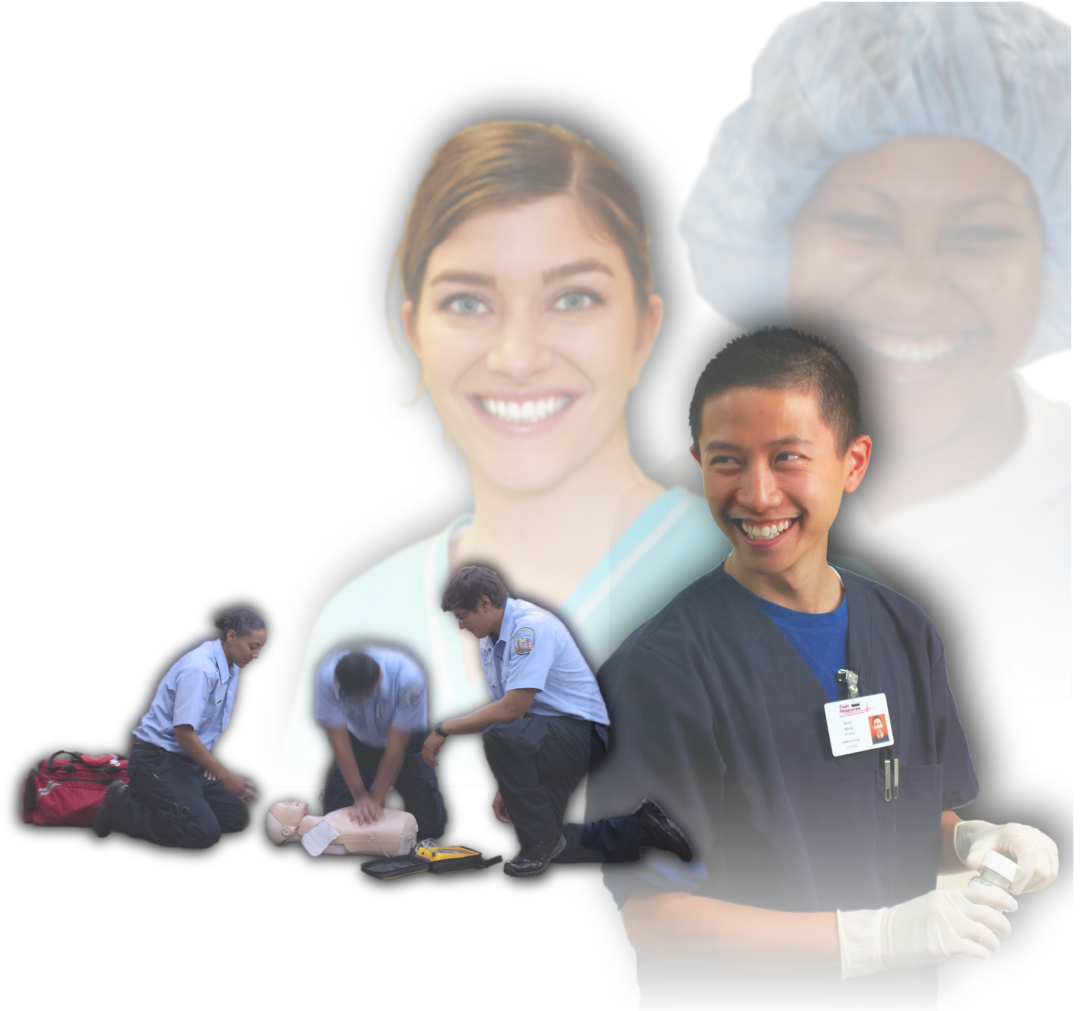
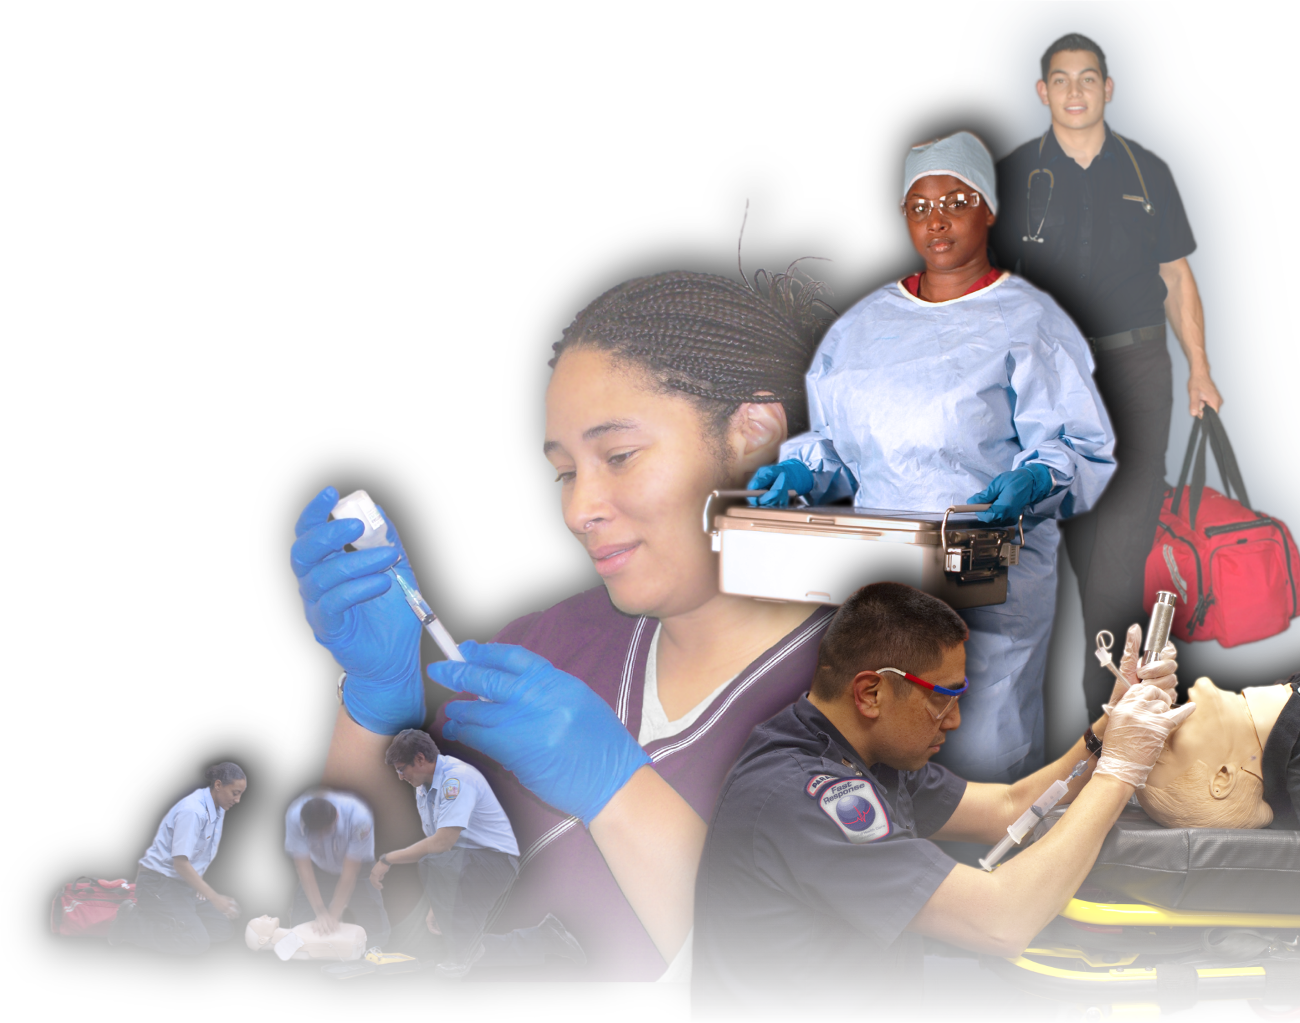
Set up all the sub pages for Contact Us section, except for Directions - may combine with Map page. Created a new template and some new styles for those pages. Map page uses a local static img, dynamic one will not work when hosting from localhost. Updated background image. Added blank pages for New

diff --git a/css/3cols.css b/css/3cols.css
@@ -1,0 +1,60 @@
+main {
+    flex-flow: row wrap;
+    justify-content: space-between;
+    align-items: flex-start;
+    overflow-y: auto;
+}
+
+h3 {
+  margin-top: 0;
+}
+
+#left-col, #center-col, #right-col {
+    flex: 0 0 32% !important;
+    width: 32% !important;
+    justify-content: flex-start;
+}
+
+#center-col {
+  padding: 0 !important;
+}
+
+/*
+#right-col {
+    flex: 0 0 40%;
+    width: 40%;
+    justify-content: flex-start;
+}
+
+#right-col > dl {
+  display: flex;
+  flex-flow: row wrap;
+  justify-content: space-between;
+  align-items: center;
+}
+
+#right-col > dl > dt {
+  display: inline-block;
+  flex: 1 20%;
+  margin-top: 10px !important;
+}
+
+#right-col > dl > dd {
+  display: inline-block;
+  flex: 1 70%;
+  margin-top: 10px !important;
+}
+*/
+
+dl {
+  margin: 0;
+}
+dt {
+  margin-top: 5px;
+}
+dt:first-child {
+  margin-top: 0;
+}
+dd {
+  margin: 0 0 0 20px;
+}

diff --git a/js/menus.js b/js/menus.js
@@ -1,0 +1,17 @@
+$('nav li a[data-submenu]').click(function() {
+  // pseudocode
+  var footer = $('footer');
+  var submenu_id = $(this).getData('submenu');
+  var animated = $.copyElement($(submenu_id));
+  animated.id = animated.id + '_animated';
+  animated.top = $(this).top;
+  animated.left = $(this).left;
+  animated.width = animated.firstchild.width;
+  animated.show();
+  animated.moveDown( $('footer').top, 2s );
+  animated.animateWidth( footer.width, 2s );
+  footer.children().hide();
+  $(submenu_id).show();
+  animated.hide();
+  animated.remove();
+});

diff --git a/css/contact.css b/css/contact.css
@@ -31,3 +31,29 @@
 #submenu_contact_us {
     display: flex;
 }
+
+main > a.map {
+  display: block;
+  align-self: center;
+}
+
+main > ul.transit {
+  display: flex;
+  flex-flow: column nowrap;
+  justify-content: space-around;
+  height: 100%;
+  margin-bottom: 0;
+}
+
+main > ul.parking {
+  overflow-y: scroll;
+  height: 100%;
+  margin-bottom: 0;
+}
+
+main > ul.parking li {
+  margin-top: 10px;
+}
+main > ul.parking > li:first-child {
+  margin-top: 0;
+}

diff --git a/css/main.css b/css/main.css
@@ -736,7 +736,7 @@ main {
     /* overflow-y: scroll; */
     overflow: hidden;
     padding: 10px;
-    background-color: rgba(0,0,0, 0.75);
+    background-color: rgba(0,0,0, 0.85);
     height: 100%;
     width: 100%;
     margin: 0 auto;
@@ -823,9 +823,15 @@ figcaption {
 }
 
 
-
 #footer-menu {
     width: 100%;
     height: 100%;
 }
+
+
+.nowrap {
+    white-space: nowrap;
+}
+
+
 

diff --git a/contact/parking.php b/contact/parking.php
@@ -2,6 +2,56 @@
 require_once '../twig_loader.php';
 
 $content = <<<'HTML'
+<ul class="parking">
+  <li><strong>Parking Validation:</strong> Sorry, we do not validate parking.</li>
+  <li><strong>Metered Parking Lot:</strong> A metered parking lot is available on Berkeley Way between Shattuck Avenue and Milvia. <em><span class="nowrap">Hours: Mon-Fri 5:15am-12am,</span> <span class="nowrap">Sat 8am-12am,</span> <span class="nowrap">Sun 12pm-12am.</span></em></li>
+  <li><strong>Residential/Street Parking:</strong> West of Martin Luther King Jr. Way for up to two hours.</li>
+  <li><strong>Motorcycle Parking:</strong> Free parking for motorcycles is located on the corner of Allston Way and Harold Street <span class="nowrap">(1/4 block from the school).</span></li>
+  <li><strong>Parking Garages:</strong> There are several parking garages in the area. These rates and hours are not guaranteed -- Please contact the garage prior to your visit.
+  <ul>
+	  <li>
+	    <div>Standard Parking</div>
+	    <div>2020 Kittredge St between Harold and Milvia <a href="tel: +15106651662" class="nowrap">510-665-1662</a></div>
+	    <div>$2.50 per hour. In by 8:30am, out by 6:00pm: $8.00 for the day.</div>
+	    <div>Hours: Sun-Thurs 6am-12am, Fr-Sa 6am-2am</div>
+	  </li>
+	  <li>
+	    <div>Allston Way Garage (Great Western)/Standard Parking</div>
+	    <div>2061 Allston Way between Milvia and Shattuck <a href="tel: +15109819443" class="nowrap">510-981-9443</a></div>
+	    <div>$2.50 per hour, $14.50 per day. In by 8:30am, out by 6:00pm: $8.00 for the day.</div>
+	    <div>Hours: Mon-Thurs 6am-12am, Fri 6am-2am, Sat 8am-2am, <span class="nowrap">Sun 8am-12am</span></div>
+	  </li>
+	  <li>
+	    <div>Center Street Garage - Parking Concepts Inc. (PCI)</div>
+	    <div>2025 Center St. between Milvia St. and Shattuck Ave. <a href="tel: +15106499822" class="nowrap">510-649-9822</a></div>
+	    <div>$1.00 first hour, $2.00 each hour after. $15.00 per day max.</div>
+	    <div>Hours: Mon-Fri 5a-12a, Sat 7a-12a, Sun 12p-12p</div>
+	  </li> 
+	  <li>
+	    <div>Golden Bear Garage - Ampco System Parking</div>
+	    <div>1995 University Ave. Enter on Bonita Ave. <a href="tel: +15108482262" class="nowrap">510-848-2262</a></div>
+	    <div>$3.00 per hour, $14.00 per day max. In by 9:30am, out by 6:30pm: $10.00 for the day.</div>
+	    <div>Hours: Mon-Thurs 6am-10pm, Fri 8am-10pm, Sat 8am-6pm, <span class="nowrap">Sun CLOSED</span></div>
+	  </li>
+	  <li>
+	    <div>Oxford Street Surface Lot - Parking Concepts, Inc. (PCI)</div>
+	    <div>Oxford St. between Allston Way and Kittredge St <a href="tel: +15108431788" class="nowrap">510-843-1788</a></div>
+	    <div>$2.00 first hour, $4.00 second hour, $8.00 third hour. $20 max.</div>
+	    <div>Hours: Mon-Thurs 7am-1am, Fri-Sat 7am-2am, <span class="nowrap">Sun 8am-10pm</span></div>
+	  </li>
+	  <li>
+	    <div>Promenade Garage - Douglas Parking</div>
+	    <div>1936 Addison St. between MLK Jr. Way and Milvia St. <a href="tel: +15108494959" class="nowrap">510-849-4959</a></div>
+	    <div>$3.00 per hour, $10.00 per day.</div>
+	    <div>Hours: Mon-Sat 7:30am-7pm</div>
+	  </li>
+	  <li>
+	    <div>Al's Parking Lot</div>
+	    <div>2109 Milvia St. between Addison St. and Center St.</div>
+	  </li>
+  </ul>
+  </li>
+</ul>
 HTML;
 
 $renderer = new TemplateRenderer();

diff --git a/contact/hours.php b/contact/hours.php
@@ -1,18 +1,77 @@
 <?php
 require_once '../twig_loader.php';
 
-$content = <<<'HTML'
+$left = <<<'HTML'
+<h3>Front Desk<br />Continuing Education<br />General Inquiries</h3>
+<dl>
+	<dt>Hours</dt>
+    <dd>Mon - Thu: 8 AM - 6 PM</dd>
+    <dd>Fri: 8 AM - 5 PM</dd>
+	<dt>Phone</dt>
+    <dd><a href="tel: +15108494009" class="nowrap">510-849-4009</a></dd>
+	<dt>Fax</dt>
+    <dd>866-290-2739</dd>
+	<dt>Email</dt>
+    <dd><a href="mailto: info@fastresponse.org">info@fastresponse.org</a></dd>
+	<dt>Address</dt>
+		<dd>
+		  <span class="nowrap">Fast Response School of</span><br />
+		  <span class="nowrap">Health Care Education</span><br />
+		  <span class="nowrap">2075 Allston Way, Suite B</span><br />
+		  <span class="nowrap">Berkeley, CA 94704</span><br />
+		</dd>
+</dl>
+HTML;
+
+$center = <<<'HTML'
+<h3>Admissions<br />Career Courses<br />Postsecondary Education</h3>
+<dl>
+	<dt>Hours</dt>
+    <dd>Mon - Thu: 8 AM - 6 PM</dd>
+    <dd>Fri: 8 AM - 5 PM</dd>
+    <dd>Sat: 9 AM - 5 PM</dd>
+	<dt>Phone</dt>
+    <dd><a href="tel: +15108093654" class="nowrap">510-809-3654</a></dd>
+	<dt>Toll Free</dt>
+    <dd><a href="tel: +18006377387" class="nowrap">800-637-7387</a></dd>
+	<dt>Fax</dt>
+    <dd>866-572-3363</dd>
+	<dt>Email</dt>
+    <dd><a href="mailto: admissions@fastresponse.org">admissions@fastresponse.org</a></dd>
+</dl>
+HTML;
+
+$right = <<<'HTML'
+<h3>Departments</h3>
+<dl>
+	<dt>EMT</dt>
+    <dd><a href="mailto: emt@fastresponse.org">emt@fastresponse.org</a></dd>
+	<dt>Phlebotomy</dt>
+    <dd><a href="mailto: phlebotomy@fastresponse.org">phlebotomy@fastresponse.org</a></dd>
+	<dt>Paramedic</dt>
+    <dd><a href="mailto: paramedic@fastresponse.org">paramedic@fastresponse.org</a></dd>
+	<dt>Pharmacy Technician</dt>
+    <dd><a href="mailto: pharmacy@fastresponse.org">pharmacy@fastresponse.org</a></dd>
+	<dt>Medical Assisting</dt>
+    <dd><a href="mailto: ma@fastresponse.org">ma@fastresponse.org</a></dd>
+	<dt>Sterile Processing</dt>
+    <dd><a href="mailto: spt@fastresponse.org">spt@fastresponse.org</a></dd>
+	<dt>Continuing Education</dt>
+    <dd><a href="mailto: ceu@fastresponse.org">ceu@fastresponse.org</a></dd>
+</dl>
 HTML;
 
 $renderer = new TemplateRenderer();
 
-print $renderer->render('base.twig', array(
+print $renderer->render('3cols.twig', array(
   'title' => 'Fast Response School of Health Care Education', 
   'page_header' => 'Hours & Information',
   'description' => "Fast Response offers the Bay Area's most comprehensive education and resources for healthcare professionals including entry-level courses, certifications, and continuing education units.",
   'keywords' => 'fast response, fast, response, health care, healthcare, school, education, training, certification, emt, emergency medical technician, medical assistant, sterile processing, phlebotomy, phlebotomist, pharmacy tech, pharmacy technician, paramedic, continuing education, cpr, bls, basic life support, acls, advanced life support, ecg, ekg',
   'canonical' => 'http://www.fastresponse.org/',
   'css' => array('contact.css'),
-  'content' => $content,
+  'left' => $left,
+  'center' => $center,
+  'right' => $right,
 ));
 ?>

diff --git a/contact/transit.php b/contact/transit.php
@@ -2,6 +2,12 @@
 require_once '../twig_loader.php';
 
 $content = <<<'HTML'
+<ul class="transit">
+  <li><strong>BART:</strong> Fast Response is located a quarter of a block from the <a href="http://www.bart.gov/stations/dbrk/index.aspx">Downtown Berkeley</a> BART station. This station is served by the Red and Orange lines, with trains arriving every 15 minutes or less through most of the day. Taking BART is the best option to avoid parking hassles!</li>
+  <li><strong>AC Transit:</strong> The Alameda County Transit system has many buses that can bring you to Fast Response. Currently there are 14 lines that pass through Downtown Berkeley. <a href="http://www.actransit.org/maps/">Check their maps and schedules</a> for the following lines: 1, 1R, 7, 18, 25, 49, 51B, 52, 65, 67, 88, 800, 851, or F.</li>
+  <li><strong>Amtrak:</strong> The <a href="http://www.amtrak.com/capitol-corridor-train">Capitol Corridor</a> route, which travels between Sparks, NV and San Jose, CA, makes a stop at the <a href="http://www.amtrak.com/servlet/ContentServer?c=am2Station&pagename=am%2Fam2Station%2FStation_Page&p=1237405732508&cid=1229726270736">Berkeley (BKY)</a> Amtrak station. From here, AC Transit route <a href="http://maps.google.com/maps?saddr=700+University+Avenue,+Berkeley,+CA&daddr=2075+Allston+Way,+Berkeley,+CA&hl=en&sll=37.269174,-119.306607&sspn=8.721303,14.040527&geocode=FX7PQQIdE9m1-ClrhgY63X6FgDGlDfIEekDRgg%3BFTDXQQIdclO2-CkbMfZInH6FgDHB1sg-vD-NEA&oq=2075+allston+way+&dirflg=r&ttype=now&noexp=0&noal=0&sort=def&mra=ls&t=m&z=14&start=0">51B</a> can bring you down to the school. Sacramento residents can expect a 2.5 hour commute.</li>
+  <li><strong>511:</strong> The <a href="http://www.511.org">511.org</a> website provides an excellent tool for planning complicated bay area trips by bus and train, including transferring between agencies at discounted prices.</li>
+</ul>
 HTML;
 
 $renderer = new TemplateRenderer();

diff --git a/courses/career_courses.php b/courses/career_courses.php
@@ -1,22 +1,14 @@
 <?php
 require_once '../twig_loader.php';
 
-$content = <<<'HTML'
-  <a class="map" target="_blank" href="https://www.google.com/maps/place/Fast+Response+School+of+Health+Care+Education,+2075+Allston+Way,+Berkeley,+CA+94704/">
-    <!--<img src="http://maps.googleapis.com/maps/api/staticmap?center=2075+Allston+Way,Suite+B,Berkeley,CA,94704&amp;zoom=14&amp;markers=color:red%7Clabel:F%7C2075+Allston+Way,Berkeley,CA&amp;size=400x350&amp;sensor=false" alt="Map of our area" data-width="400" data-height="350" />-->
-    <img src="/img/map_tmp.png">
-  </a>
-HTML;
-
 $renderer = new TemplateRenderer();
 
 print $renderer->render('base.twig', array(
   'title' => 'Fast Response School of Health Care Education', 
-  'page_header' => 'Area Map',
+  'page_header' => null,
   'description' => "Fast Response offers the Bay Area's most comprehensive education and resources for healthcare professionals including entry-level courses, certifications, and continuing education units.",
   'keywords' => 'fast response, fast, response, health care, healthcare, school, education, training, certification, emt, emergency medical technician, medical assistant, sterile processing, phlebotomy, phlebotomist, pharmacy tech, pharmacy technician, paramedic, continuing education, cpr, bls, basic life support, acls, advanced life support, ecg, ekg',
   'canonical' => 'http://www.fastresponse.org/',
-  'css' => array('contact.css'),
-  'content' => $content,
+  'css' => array(),
 ));
 ?>

diff --git a/courses/continuing_education.php b/courses/continuing_education.php
@@ -1,22 +1,14 @@
 <?php
 require_once '../twig_loader.php';
 
-$content = <<<'HTML'
-  <a class="map" target="_blank" href="https://www.google.com/maps/place/Fast+Response+School+of+Health+Care+Education,+2075+Allston+Way,+Berkeley,+CA+94704/">
-    <!--<img src="http://maps.googleapis.com/maps/api/staticmap?center=2075+Allston+Way,Suite+B,Berkeley,CA,94704&amp;zoom=14&amp;markers=color:red%7Clabel:F%7C2075+Allston+Way,Berkeley,CA&amp;size=400x350&amp;sensor=false" alt="Map of our area" data-width="400" data-height="350" />-->
-    <img src="/img/map_tmp.png">
-  </a>
-HTML;
-
 $renderer = new TemplateRenderer();
 
 print $renderer->render('base.twig', array(
   'title' => 'Fast Response School of Health Care Education', 
-  'page_header' => 'Area Map',
+  'page_header' => null,
   'description' => "Fast Response offers the Bay Area's most comprehensive education and resources for healthcare professionals including entry-level courses, certifications, and continuing education units.",
   'keywords' => 'fast response, fast, response, health care, healthcare, school, education, training, certification, emt, emergency medical technician, medical assistant, sterile processing, phlebotomy, phlebotomist, pharmacy tech, pharmacy technician, paramedic, continuing education, cpr, bls, basic life support, acls, advanced life support, ecg, ekg',
   'canonical' => 'http://www.fastresponse.org/',
-  'css' => array('contact.css'),
-  'content' => $content,
+  'css' => array(),
 ));
 ?>

diff --git a/news/index.php b/news/index.php
@@ -1,22 +1,14 @@
 <?php
 require_once '../twig_loader.php';
 
-$content = <<<'HTML'
-  <a class="map" target="_blank" href="https://www.google.com/maps/place/Fast+Response+School+of+Health+Care+Education,+2075+Allston+Way,+Berkeley,+CA+94704/">
-    <!--<img src="http://maps.googleapis.com/maps/api/staticmap?center=2075+Allston+Way,Suite+B,Berkeley,CA,94704&amp;zoom=14&amp;markers=color:red%7Clabel:F%7C2075+Allston+Way,Berkeley,CA&amp;size=400x350&amp;sensor=false" alt="Map of our area" data-width="400" data-height="350" />-->
-    <img src="/img/map_tmp.png">
-  </a>
-HTML;
-
 $renderer = new TemplateRenderer();
 
 print $renderer->render('base.twig', array(
   'title' => 'Fast Response School of Health Care Education', 
-  'page_header' => 'Area Map',
+  'page_header' => null,
   'description' => "Fast Response offers the Bay Area's most comprehensive education and resources for healthcare professionals including entry-level courses, certifications, and continuing education units.",
   'keywords' => 'fast response, fast, response, health care, healthcare, school, education, training, certification, emt, emergency medical technician, medical assistant, sterile processing, phlebotomy, phlebotomist, pharmacy tech, pharmacy technician, paramedic, continuing education, cpr, bls, basic life support, acls, advanced life support, ecg, ekg',
   'canonical' => 'http://www.fastresponse.org/',
-  'css' => array('contact.css'),
-  'content' => $content,
+  'css' => array(),
 ));
 ?>

diff --git a/students/index.php b/students/index.php
@@ -1,22 +1,14 @@
 <?php
 require_once '../twig_loader.php';
 
-$content = <<<'HTML'
-  <a class="map" target="_blank" href="https://www.google.com/maps/place/Fast+Response+School+of+Health+Care+Education,+2075+Allston+Way,+Berkeley,+CA+94704/">
-    <!--<img src="http://maps.googleapis.com/maps/api/staticmap?center=2075+Allston+Way,Suite+B,Berkeley,CA,94704&amp;zoom=14&amp;markers=color:red%7Clabel:F%7C2075+Allston+Way,Berkeley,CA&amp;size=400x350&amp;sensor=false" alt="Map of our area" data-width="400" data-height="350" />-->
-    <img src="/img/map_tmp.png">
-  </a>
-HTML;
-
 $renderer = new TemplateRenderer();
 
 print $renderer->render('base.twig', array(
   'title' => 'Fast Response School of Health Care Education', 
-  'page_header' => 'Area Map',
+  'page_header' => null,
   'description' => "Fast Response offers the Bay Area's most comprehensive education and resources for healthcare professionals including entry-level courses, certifications, and continuing education units.",
   'keywords' => 'fast response, fast, response, health care, healthcare, school, education, training, certification, emt, emergency medical technician, medical assistant, sterile processing, phlebotomy, phlebotomist, pharmacy tech, pharmacy technician, paramedic, continuing education, cpr, bls, basic life support, acls, advanced life support, ecg, ekg',
   'canonical' => 'http://www.fastresponse.org/',
-  'css' => array('contact.css'),
-  'content' => $content,
+  'css' => array(),
 ));
 ?>
